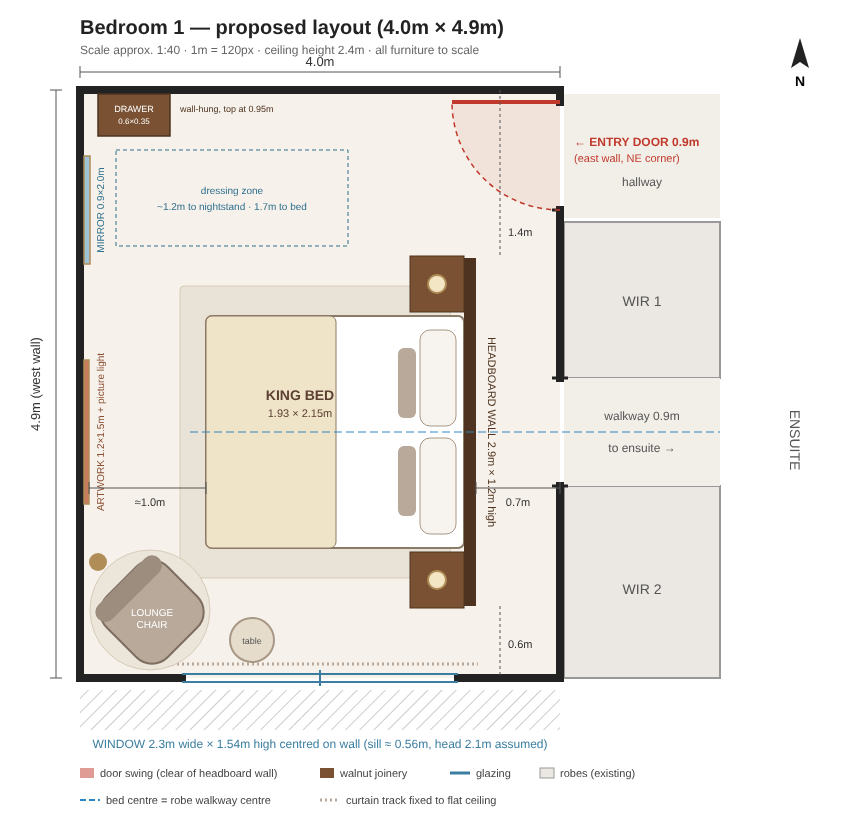
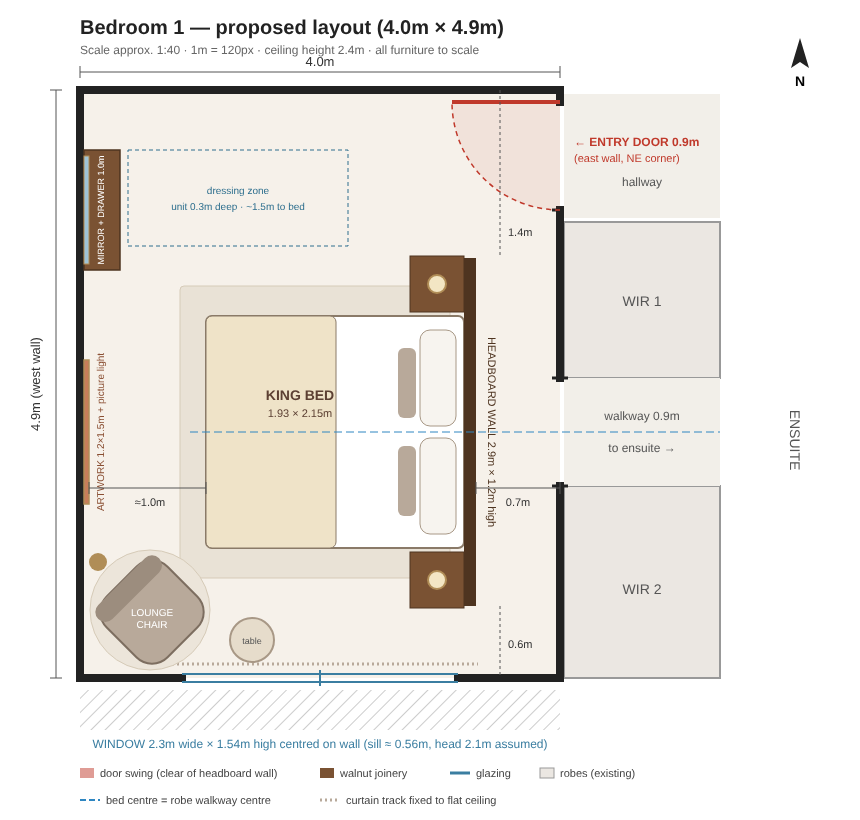
Combine mirror and drawer into one integrated wall-hung unit
Claude-Session: https://claude.ai/code/session_01P4LkCESWoGV8P5QgBbWSmy

Changed region(s): [[0.0907, 0.0915, 0.3023, 0.3354], [0.2116, 0.2134, 0.3628, 0.2744]]

diff --git a/renders/bedroom-1-3d.html b/renders/bedroom-1-3d.html
@@ -172,21 +172,23 @@ box(1.33,1.5,0.54,0.57,4.48,4.66,mat('#c9b48e',0.8)); cyl(1.52,0.58,4.62,0.04,0.
 cyl(0.15,0.75,3.95,0.012,0.012,1.5,brass,8); cyl(0.15,0.01,3.95,0.12,0.14,0.02,brass);
 cyl(0.15,1.5,3.95,0.12,0.18,0.22,mat('#f3ecdf',0.9,0,{side:THREE.DoubleSide}),32);
 
-// ---------- Dressing spot: small floating drawer on north wall + full-length mirror on west wall ----------
-// small wall-hung drawer in the north-west corner, 0.6m wide x 0.35m deep x 0.18m high, top at 0.95m
-box(0.15,0.75,0.77,0.92,0,0.35,walnut);
-box(0.16,0.74,0.785,0.905,0.35,0.355,walnut);
-box(0.37,0.53,0.84,0.855,0.355,0.37,brass);                           // brass pull
-box(0.15,0.75,0.92,0.95,0,0.36,travertine);                           // stone top
-box(0.15,0.75,0.765,0.77,0.02,0.33,mat('#fff2d4',0.5,0,{emissive:'#ffcf8a',emissiveIntensity:0.4}),false,false); // soft under-glow
-// styling on top: small brass tray, perfume, bud vase
-box(0.25,0.47,0.95,0.962,0.08,0.24,brass); cyl(0.32,1.0,0.16,0.025,0.025,0.08,mat('#e9efe9',0.1,0,{transparent:true,opacity:0.6})); cyl(0.42,0.99,0.15,0.02,0.02,0.06,mat('#d8c9a6',0.3,0.3));
-cyl(0.62,1.02,0.17,0.04,0.03,0.14,mat('#efe9df',0.5)); cyl(0.62,1.14,0.17,0.003,0.003,0.12,mat('#6b7f58',0.8),6);
-// full-length mirror on west wall, north end: 0.9m wide x 2.0m high, slim brass frame
-box(0,0.035,0.15,2.15,0.55,1.45,brass);
+// ---------- Dressing spot: integrated wall-hung mirror + drawer unit on west wall, north end (z 0.5-1.5) ----------
+// walnut backing panel 1.0m wide, from 0.57m to 2.22m; floor below left clear
+box(0,0.03,0.57,2.22,0.5,1.5,walnut);
+// drawer: 1.0m wide x 0.3m deep x 0.18m high, top at 0.75m, travertine top, brass pull, soft under-glow
+box(0.03,0.3,0.57,0.73,0.5,1.5,walnut);
+box(0.3,0.305,0.585,0.715,0.51,1.49,walnut);
+box(0.305,0.32,0.64,0.655,0.92,1.08,brass);
+box(0.03,0.31,0.73,0.75,0.5,1.5,travertine);
+box(0.04,0.29,0.565,0.57,0.52,1.48,mat('#fff2d4',0.5,0,{emissive:'#ffcf8a',emissiveIntensity:0.4}),false,false);
+// styling on drawer top: brass tray with comb + perfume, bud vase
+box(0.08,0.24,0.75,0.762,0.62,0.9,brass); cyl(0.14,0.8,0.7,0.025,0.025,0.08,mat('#e9efe9',0.1,0,{transparent:true,opacity:0.6})); box(0.1,0.22,0.762,0.77,0.78,0.86,mat('#3a2a1e',0.5));
+cyl(0.16,0.82,1.35,0.04,0.03,0.14,mat('#efe9df',0.5)); cyl(0.16,0.94,1.35,0.003,0.003,0.12,mat('#6b7f58',0.8),6);
+// mirror inset above drawer: 0.9m wide x 1.42m high (0.78m to 2.2m), thin brass edge
+box(0.03,0.04,0.77,2.21,0.54,1.46,brass);
 const cubeRT=new THREE.WebGLCubeRenderTarget(512); const cubeCam=new THREE.CubeCamera(0.05,20,cubeRT);
 const mirrorM=mat('#c9d2d4',0.03,1.0,{envMap:cubeRT.texture});
-const mirror=box(0.035,0.045,0.17,2.13,0.57,1.43,mirrorM,false,false);
+const mirror=box(0.04,0.05,0.78,2.2,0.55,1.45,mirrorM,false,false);
 
 // ---------- Lighting: morning sun through south window ----------
 scene.add(new THREE.HemisphereLight('#fff8ee','#a08a70',0.55));
